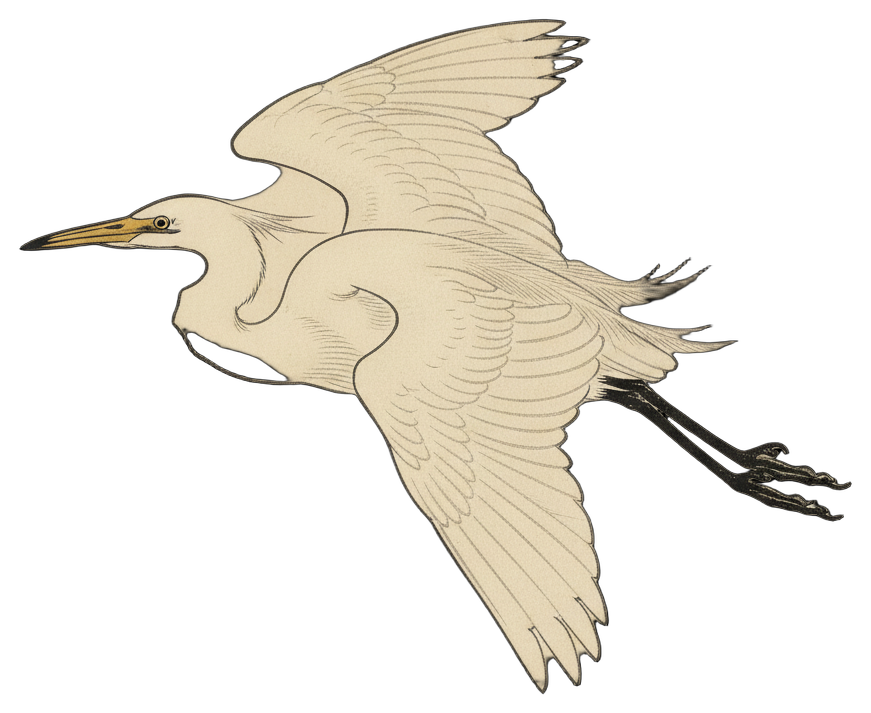
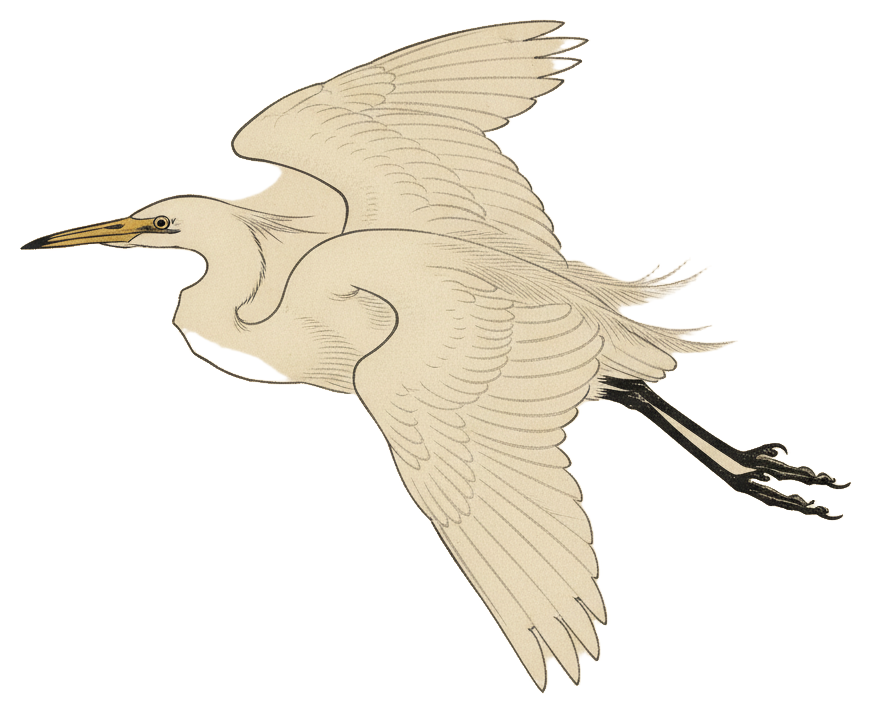
Fix BiRefNet cutting holes through pale bird bodies
Reported: transparency showing through the chests of the in-flight egret and
in-flight fairywren. Confirmed and fixed; three images were affected.

The defect
----------
Fringing was never the problem - edges are clean everywhere, including the
near-white birds. Holes were. BiRefNet cut straight through the pale bodies
of the three flight poses, removing most of the chest:

  bubulcus-ibis-2       2305 body pixels wrongly removed
  malurus-lamberti-2    1992
  ardea-intermedia-2    1317

This is the failure the upstream README warns about - a pale body against the
pale cream ground gives the matting model too little contrast - and it is
invisible until the illustration is composited over a non-cream background,
which is exactly what the collage does.

My earlier audit missed it. It counted only fully enclosed transparent
regions, so a chest opening that reaches the outline through a gap scored
zero, and I wrongly reported "interior transparency only where anatomy calls
for it". Compositing over saturated magenta is the check that actually works;
alpha statistics alone are not sufficient.

The fix
-------
Root-caused in cutout.py rather than patched by hand. New repair_alpha pass,
on by default, --no-repair to disable:

  1. sample the flat cream ground from the frame border
  2. flood-fill inward from the border through cream-like pixels only
  3. anything the fill cannot reach is bird, however pale it is
[…]

diff --git a/avian/frontend/apt.js b/avian/frontend/apt.js
@@ -2,7 +2,8 @@
   var PLACEHOLDER = [{ "sci": "Calypte anna", "com": "Anna's Hummingbird", "featured": true }, { "sci": "Passer domesticus", "com": "House Sparrow" }, { "sci": "Haemorhous mexicanus", "com": "House Finch" }, { "sci": "Turdus migratorius", "com": "American Robin" }, { "sci": "Zenaida macroura", "com": "Mourning Dove" }, { "sci": "Spinus psaltria", "com": "Lesser Goldfinch" }, { "sci": "Zonotrichia leucophrys", "com": "White-crowned Sparrow" }, { "sci": "Aphelocoma californica", "com": "California Scrub-Jay" }, { "sci": "Mimus polyglottos", "com": "Northern Mockingbird" }, { "sci": "Sayornis nigricans", "com": "Black Phoebe" }, { "sci": "Larus occidentalis", "com": "Western Gull" }, { "sci": "Corvus brachyrhynchos", "com": "American Crow" }];
   // Bumped whenever the offline sketch build changes, so the browser
   // doesn't keep a stale cache after we regenerate the sketches.
-  var SKETCH_VERSION = 'act2'; // act2: +5 ACT gap species (403 total, 806 images) - Australasian Pipit,
+  var SKETCH_VERSION = 'act3'; // act3: alpha repair - BiRefNet had cut holes through pale bodies (chests of
+  // the three flight-pose egrets/fairywren). act2: +5 ACT gap species (403 total) - Australasian Pipit,
   // Cattle Egret, Variegated Fairywren, Intermediate Egret, Barn Owl. act1: AU-VIC bundle (398 species)
   // swapped in for the North American set, masks rebuilt for Canberra/ACT deployment.
   // Cache-bust for /api/img - bump whenever a bird gets re-rendered via
@@ -11,7 +12,7 @@
   // equivalent to a global cache purge for /api/img. (caches.default
   // .delete() in the worker only affects ONE colo at a time, so a
   // versioned URL is the only reliable way to invalidate everywhere.)
-  var IMG_VERSION = 'act2'; // act2: +5 ACT gap species; Intermediate Egret and Australasian Pipit flight
+  var IMG_VERSION = 'act3'; // act3: pale-body alpha repair re-cut. act2: +5 ACT gap species; Intermediate Egret and Australasian Pipit flight
   // pose re-rendered. act1: every illustration replaced with the AU-VIC set, so drop every cached copy.
 
   // ---- Sliding pill helper ----

diff --git a/avian/scripts/cutout.py b/avian/scripts/cutout.py
@@ -27,6 +27,53 @@ import sys
 from pathlib import Path
 
 
+def repair_alpha(rgb, alpha, tol: float = 42.0):
+    """Restore opacity to body areas the matting model wrongly cut away.
+
+    BiRefNet judges the bird by contrast against the ground. Where a pale
+    body sits against the pale cream field - a white egret's chest, a
+    fairywren's buff breast - it can punch a hole straight through the
+    bird, sometimes taking the whole breast with it. The README warns that
+    pale birds fare worst; this is that failure, and it is invisible until
+    the collage composites the illustration over a non-cream background.
+
+    The ground is a flat, uniform, border-connected field and the bird is
+    ringed by ink outlines, so a border-seeded fill through cream-like
+    pixels physically cannot leak into the body. Whatever the fill does not
+    reach is bird, however pale it is. Enclosed cream regions are never
+    reached either, so they are filled rather than punched out.
+
+    Soft edges from the matting model are preserved: this only ever raises
+    alpha, and only inside the recovered silhouette.
+
+    Returns (repaired_alpha, pixels_recovered).
+    """
+    import numpy as np
+    from scipy import ndimage
+
+    ring = np.concatenate([rgb[0:6].reshape(-1, 3), rgb[-6:].reshape(-1, 3),
+                           rgb[:, 0:6].reshape(-1, 3), rgb[:, -6:].reshape(-1, 3)])
+    ground = ring.mean(axis=0)
+    creamish = np.linalg.norm(rgb.astype(np.float32) - ground, axis=2) < tol
+
+    lab, _ = ndimage.label(creamish)
+    border = set(np.unique(np.concatenate([lab[0], lab[-1], lab[:, 0], lab[:, -1]])))
+    border.discard(0)
+    fg = ~np.isin(lab, list(border))
+
+    # Drop paper-noise specks floating in the ground; they are not the bird
+    # and would otherwise inflate the crop box to the whole frame.
+    lab2, n = ndimage.label(fg)
+    if n:
+        sizes = ndimage.sum(fg, lab2, range(1, n + 1))
+        keep = np.where(sizes >= sizes.max() * 0.01)[0] + 1
+        fg = np.isin(lab2, keep)
+    fg = ndimage.binary_fill_holes(fg)
+
+    recovered = int(((alpha < 128) & fg).sum())
+    return np.where(fg, 255, alpha).astype(np.uint8), recovered
+
+
 def main() -> int:
     here = Path(__file__).resolve().parents[1]
     ap = argparse.ArgumentParser(description=__doc__,
@@ -42,6 +89,11 @@ def main() -> int:
                          "long side (default: 0.02)")
     ap.add_argument("--force", action="store_true",
                     help="Re-cut illustrations that already have transparency")
+    ap.add_argument("--no-repair", action="store_true",
+                    help="Skip the pale-body alpha repair (raw matting output)")
+    ap.add_argument("--ground-tol", type=float, default=42.0,
+                    help="Colour distance from the cream ground still counted as "
+                         "background, for the repair pass (default: 42)")
     args = ap.parse_args()
 
     try:
@@ -76,7 +128,15 @@ def main() -> int:
         if not args.force and im.mode == "RGBA" and im.getchannel("A").getextrema()[0] == 0:
             skipped += 1
             continue
-        cut = remove(im.convert("RGB"), session=session)  # RGBA, ground -> transparent
+        src = im.convert("RGB")
+        cut = remove(src, session=session)  # RGBA, ground -> transparent
+        recovered = 0
+        if not args.no_repair:
+            import numpy as np
+            rgb = np.array(src)
+            fixed, recovered = repair_alpha(rgb, np.array(cut.getchannel("A")),
+                                            tol=args.ground_tol)
+            cut = Image.fromarray(np.dstack([rgb, fixed]), "RGBA")
         bbox = cut.getchannel("A").getbbox()
         if bbox:
             pad = round(args.margin * max(bbox[2] - bbox[0], bbox[3] - bbox[1]))
@@ -85,7 +145,8 @@ def main() -> int:
             cut = cut.crop((x0, y0, x1, y1))
         cut.save(p)
         done += 1
-        print(f"  [cut]  {p.name}  -> {cut.width}x{cut.height}")
+        tag = f"  +{recovered}px recovered" if recovered > 200 else ""
+        print(f"  [cut]  {p.name}  -> {cut.width}x{cut.height}{tag}")
 
     print(f"\ncut {done} · skipped {skipped} (already transparent)")
     return 0

diff --git a/RECONCILIATION.md b/RECONCILIATION.md
@@ -6,7 +6,7 @@ Canberra / Australian Capital Territory deployment of
 illustration bundle.
 
 **Status: complete. 5 gap species generated, cut out, verified, merged and
-mask-rebuilt. 403 species / 806 illustrations, `act2`.**
+mask-rebuilt. 403 species / 806 illustrations, `act3`.**
 
 **Gemini spend: ~$0.48.** 12 images generated (10 initial + 2 regenerations)
 at 1290 output tokens each, $30/1M → $0.464, plus ~23 verification vision
@@ -425,14 +425,66 @@ this class of breakage — `pregen.py` carries the comment "The endpoint changes
 occasionally; if you get a 404 here, check Google's model catalog and bump
 this" — but only `pregen.py`'s own URL, not `verify.py`'s.
 
-### Cutout quality
+### Cutout quality, and a real defect that was initially missed
 
-`cutout.py` (BiRefNet) cut all 10 cleanly. The README warns that pale birds
-fringe worst, so `bubulcus-ibis` and `tyto-alba` were audited specifically:
-semi-transparent halo pixels are 1.0–1.6% of frame on both, which is ordinary
-edge antialiasing, and no illustration touches the frame edge (so nothing is
-clipped). Interior transparent regions are anatomical — gaps between legs, and
-between a curved neck and the body — not holes in the birds.
+Fringing was not the problem — edges are clean on every illustration,
+including the two near-white birds. **Holes were.** BiRefNet cut straight
+through the pale bodies of the three flight poses, removing most of the chest:
+
+| Image | Body pixels wrongly removed |
+|---|---|
+| `bubulcus-ibis-2` | 2,305 |
+| `malurus-lamberti-2` | 1,992 |
+| `ardea-intermedia-2` | 1,317 |
+
+This is the failure mode the upstream README warns about — pale bodies against
+the pale cream ground give the matting model too little contrast — and it is
+**invisible until the illustration is composited over a non-cream
+background**, which is exactly what the collage does.
+
+My first audit missed it. It counted only *fully enclosed* transparent
+regions, so a chest opening that reaches the outline through a gap scored
+zero, and I wrongly reported "interior transparency only where anatomy calls
+for it". The defect was caught on visual review over a contrasting ground.
+**Compositing over saturated magenta is the check that works**; alpha
+statistics alone are not sufficient.
+
+#### Fix: an alpha repair pass in `cutout.py`
+
+Rather than patch the three files by hand, the root cause is now handled in
+`cutout.py` (`repair_alpha`, on by default, `--no-repair` to disable):
+
+1. Sample the flat cream ground from the frame border.
+2. Flood-fill inward from the border through cream-like pixels only.
+3. Anything the fill cannot reach is bird — **however pale it is**.
+4. Drop paper-noise specks, fill enclosed regions, force those pixels opaque.
+
+The guarantee that makes this sound: the ground is uniform and
+border-connected, and every bird is ringed by ink outlines, so a border-seeded
+fill physically cannot leak into a body. It only ever *raises* alpha, so the
+matting model's soft antialiased edges survive intact. This is precisely why
+`pregen.py` renders on a flat known ground in the first place.
+
+`scipy` was added to `requirements.txt` for connected components and hole
+filling.
+
+#### The safety commit paid for itself
+
+Repair in place was impossible: rembg **zeroes the RGB channels** under
+transparent pixels, so the missing chests were not recoverable from the cut
+files. They were recovered from the pre-cutout cream-ground renders preserved
+in the WIP safety commit (`14959f6`), and re-cut through the fixed pipeline —
+no regeneration, no additional Gemini spend.
+
+Two illustrations have no pre-cutout original in git (`ardea-intermedia` and
+`anthus-novaeseelandiae-2` were regenerated and cut in the same step). Both
+were checked over a contrasting ground and are clean, so nothing was lost —
+but it is worth committing renders before cutting them.
+
+**Related hazard:** re-running `cutout.py --force` over an already-cut file is
+lossy. `im.convert("RGB")` discards the alpha channel of an RGBA input,
+leaving the zeroed background baked in as black. Always re-cut from the
+original render, never from a previous cutout.
 
 ---
 
